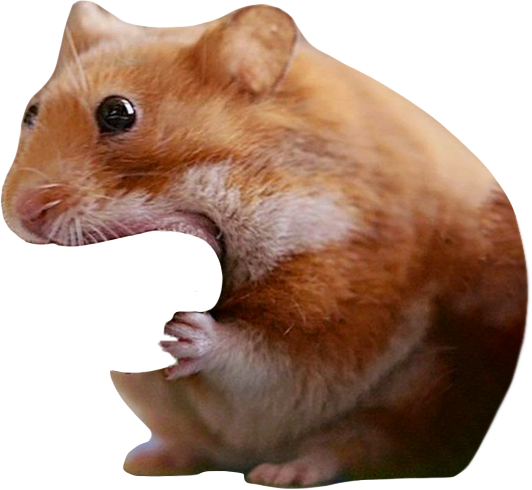
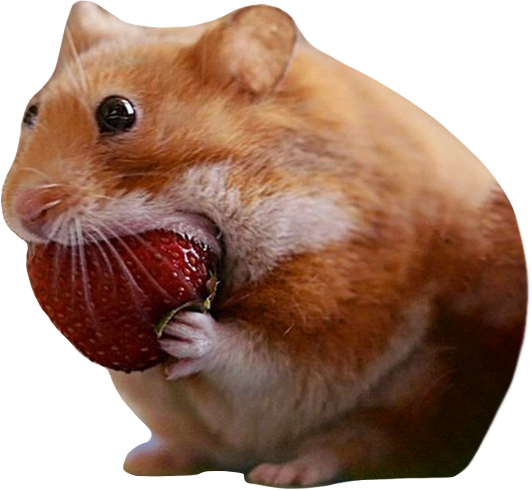
Added strawberry nomnom and fixed typo

Changed region(s): [[0.0301, 0.4592, 0.4211, 0.7653]]

diff --git a/client/index.html b/client/index.html
@@ -72,7 +72,7 @@
        
     </main>
     <footer>
-        <p>nonom is a memecoin and not a secure investment strategy. This website contains no financial advice. Please always do your own research.</p>
+        <p>nomnom is a memecoin and not a secure investment strategy. This website contains no financial advice. Please always do your own research.</p>
     </footer>
     <script src="https://cdn.jsdelivr.net/gh/mcstudios/glightbox/dist/js/glightbox.min.js"></script>
     <script src="https://unpkg.com/masonry-layout@4/dist/masonry.pkgd.min.js"></script>
